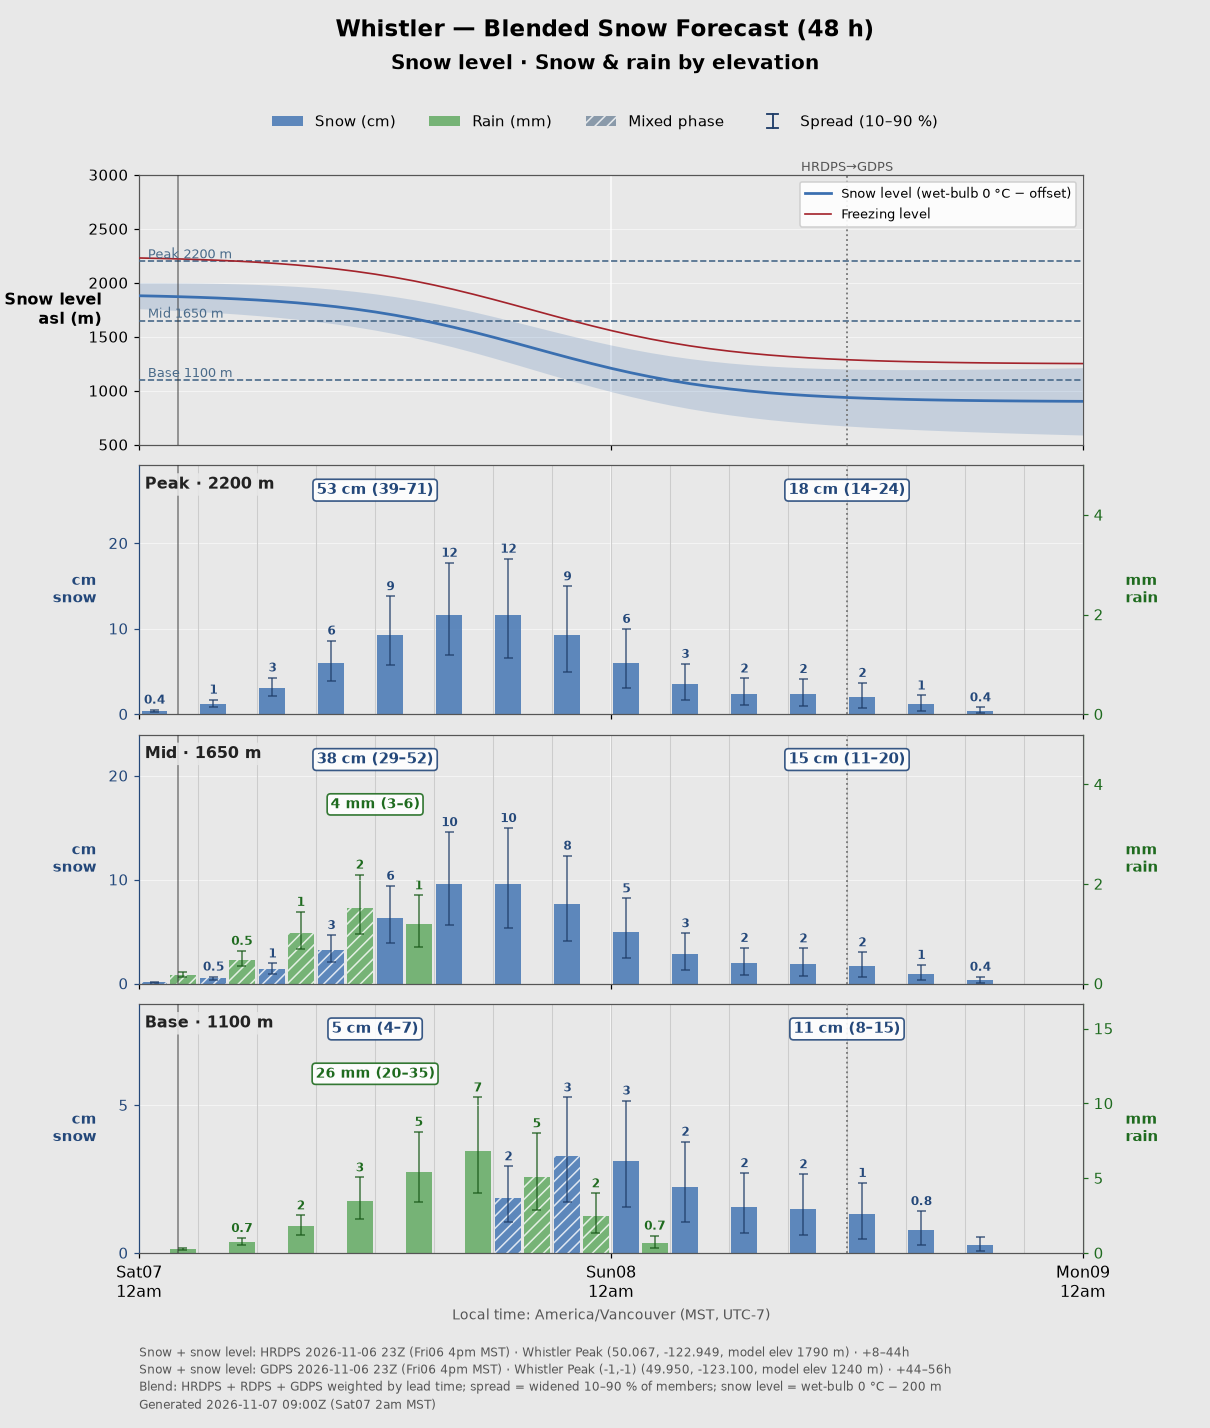
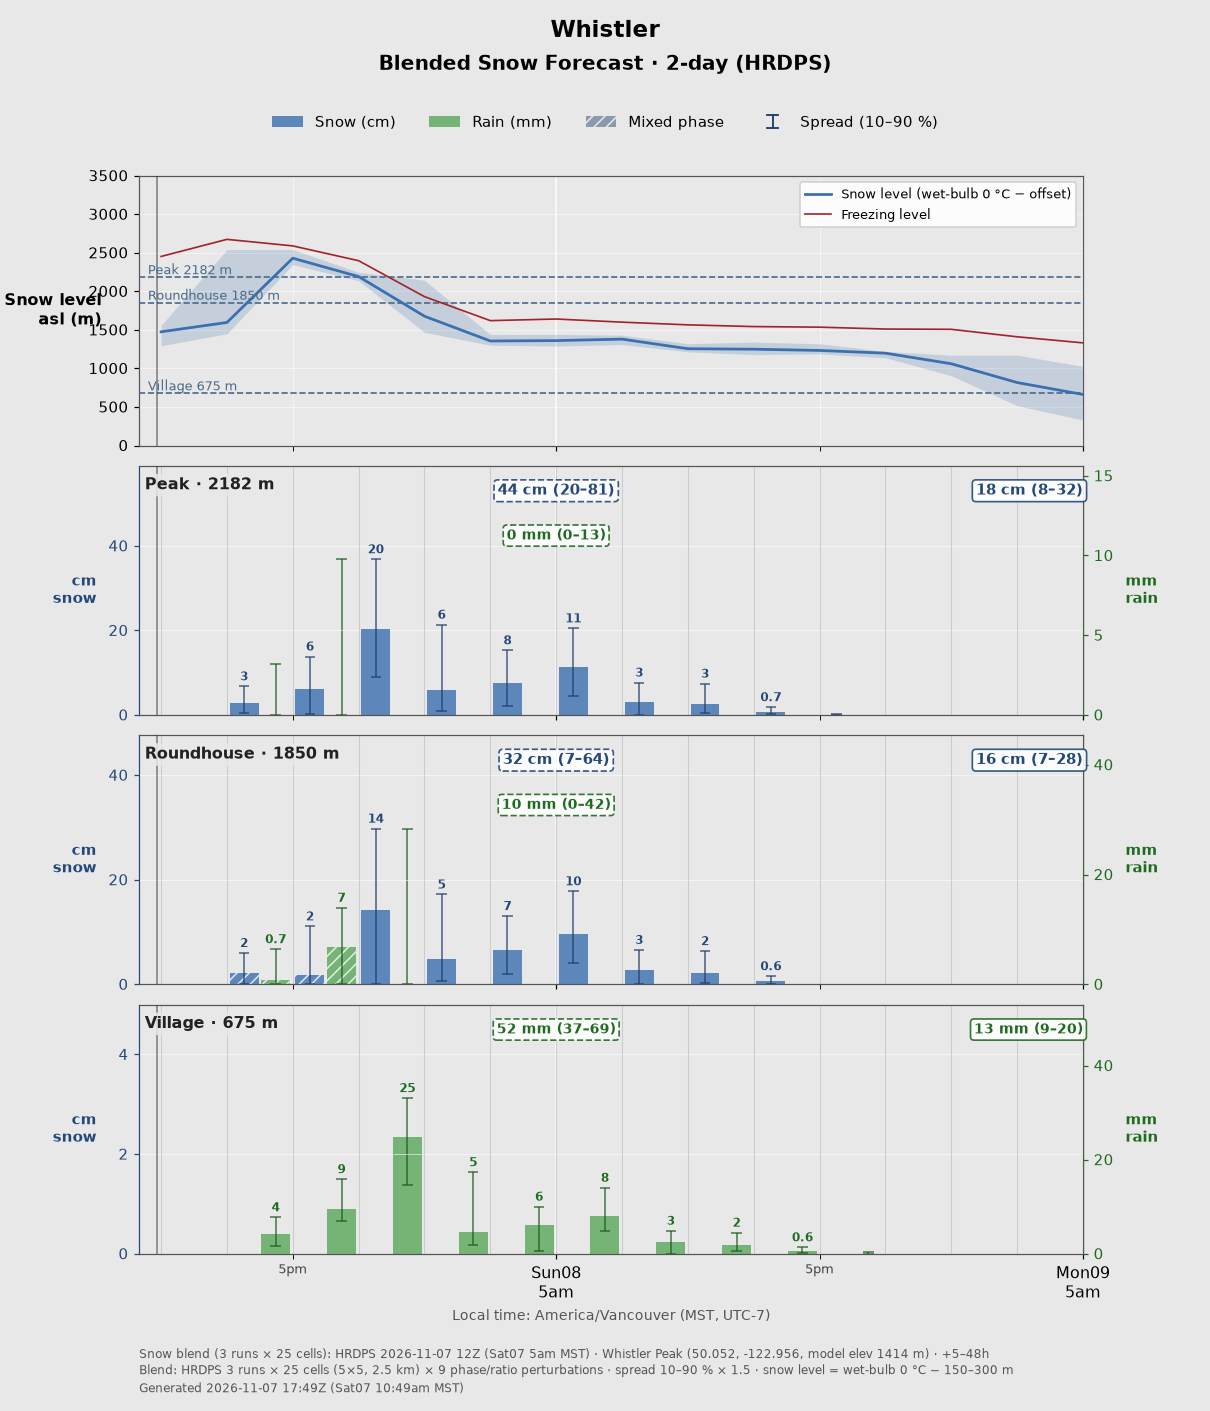
Render the README blended snow example from real HRDPS runs
docs/example_blended_snow.png is now the example config's snow_2day chart
rendered from the three latest HRDPS runs (2026-11-07 00Z/06Z/12Z) with
trim_to_data, instead of the synthetic sample. tests/test_snowchart.py no
longer overwrites it when run as a script.

Daily totals on blended snow charts are drawn at the end of their period,
right-aligned on the right edge, matching the meteogram, so the first box
no longer collides with the panel label. The example chart uses a plain
title with the product name in the subtitle, like the other examples.

diff --git a/skiforecast/snowchart.py b/skiforecast/snowchart.py
@@ -229,9 +229,12 @@ def _draw_elevation_panel(ax, axr, panel, data, x0, x1):
 
     # totals
     for tot in panel.totals:
-        cx = (mdates.date2num(tot.start) + mdates.date2num(tot.end)) / 2
+        # drawn at the end of its period, like the meteogram (a period running past the
+        # chart sits right-aligned on the right edge)
+        cx = min(mdates.date2num(tot.end), x1)
         if not (x0 <= cx <= x1):
             continue
+        ha = "right" if cx >= x1 else "center"
         ls = "-" if tot.complete else "--"
         sc, slo, shi = _num(tot.snow_cm), _num(tot.snow_lo), _num(tot.snow_hi)
         rc, rlo, rhi = _num(tot.rain_mm), _num(tot.rain_lo), _num(tot.rain_hi)
@@ -239,12 +242,12 @@ def _draw_elevation_panel(ax, axr, panel, data, x0, x1):
         show_rain = (math.isfinite(rc) and rc >= 1) or (math.isfinite(rhi) and rhi >= 2)
         if show_snow:
             ax.text(cx, 0.90, f"{_whole(sc)} cm ({_whole(slo)}–{_whole(shi)})", transform=ax.get_xaxis_transform(),
-                    ha="center", va="center", fontsize=9.5, fontweight="bold", color=st.snow_text_color, zorder=7,
+                    ha=ha, va="center", fontsize=9.5, fontweight="bold", color=st.snow_text_color, zorder=7,
                     bbox=dict(boxstyle="round,pad=0.25", facecolor="white", alpha=0.9, edgecolor=st.snow_text_color,
                               linestyle=ls, linewidth=1.1))
         if show_rain:   # a dry period shows no box at all; rain alone takes the top slot
             ax.text(cx, 0.72 if show_snow else 0.90, f"{_whole(rc)} mm ({_whole(rlo)}–{_whole(rhi)})",
-                    transform=ax.get_xaxis_transform(), ha="center", va="center", fontsize=9,
+                    transform=ax.get_xaxis_transform(), ha=ha, va="center", fontsize=9,
                     fontweight="bold", color=st.rain_text_color, zorder=7,
                     bbox=dict(boxstyle="round,pad=0.25", facecolor="white", alpha=0.9,
                               edgecolor=st.rain_text_color, linestyle=ls, linewidth=1.1))

diff --git a/README.md b/README.md
@@ -117,7 +117,8 @@ A second chart type (`type: blended_snow`) that answers "how much snow, and how 
 ```yaml
 - id: snow_2day
   type: blended_snow
-  title: "Whistler — Blended Snow Forecast ({models})"
+  title: "Whistler"
+  subtitle: "Blended Snow Forecast · 2-day ({models})"
   hours: 48
   sources:
     - { model: hrdps, point: whistler_peak }
